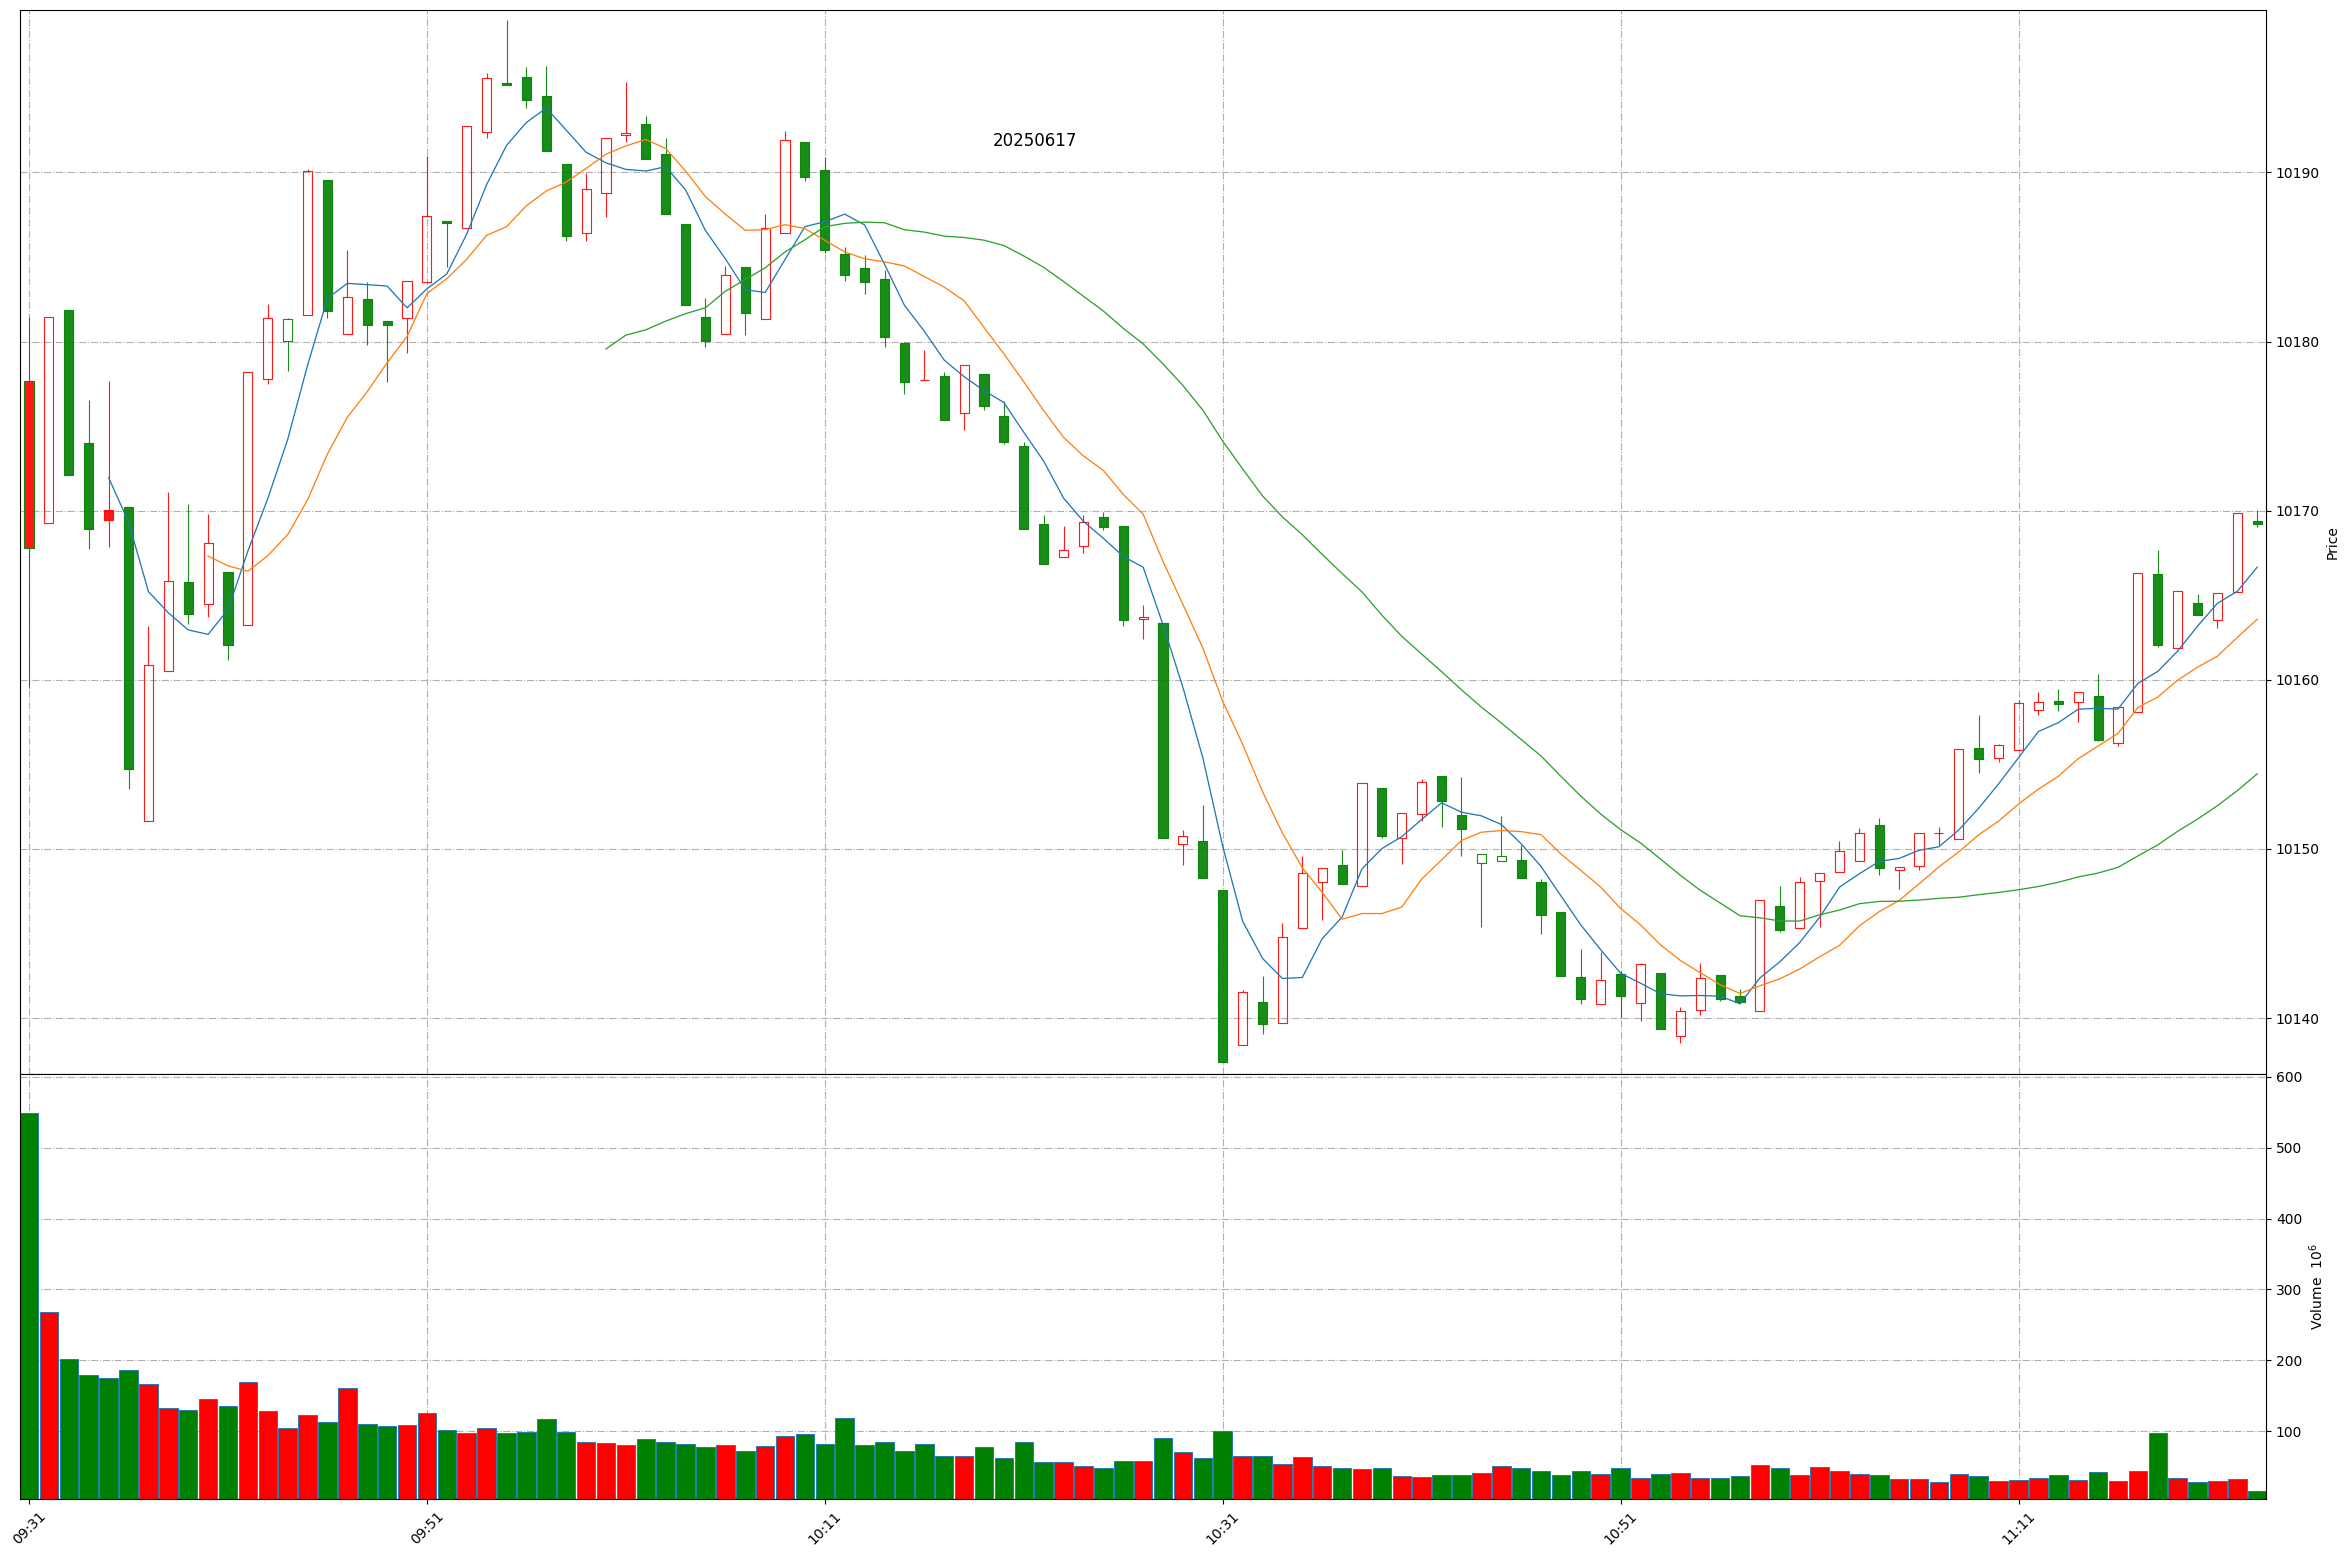
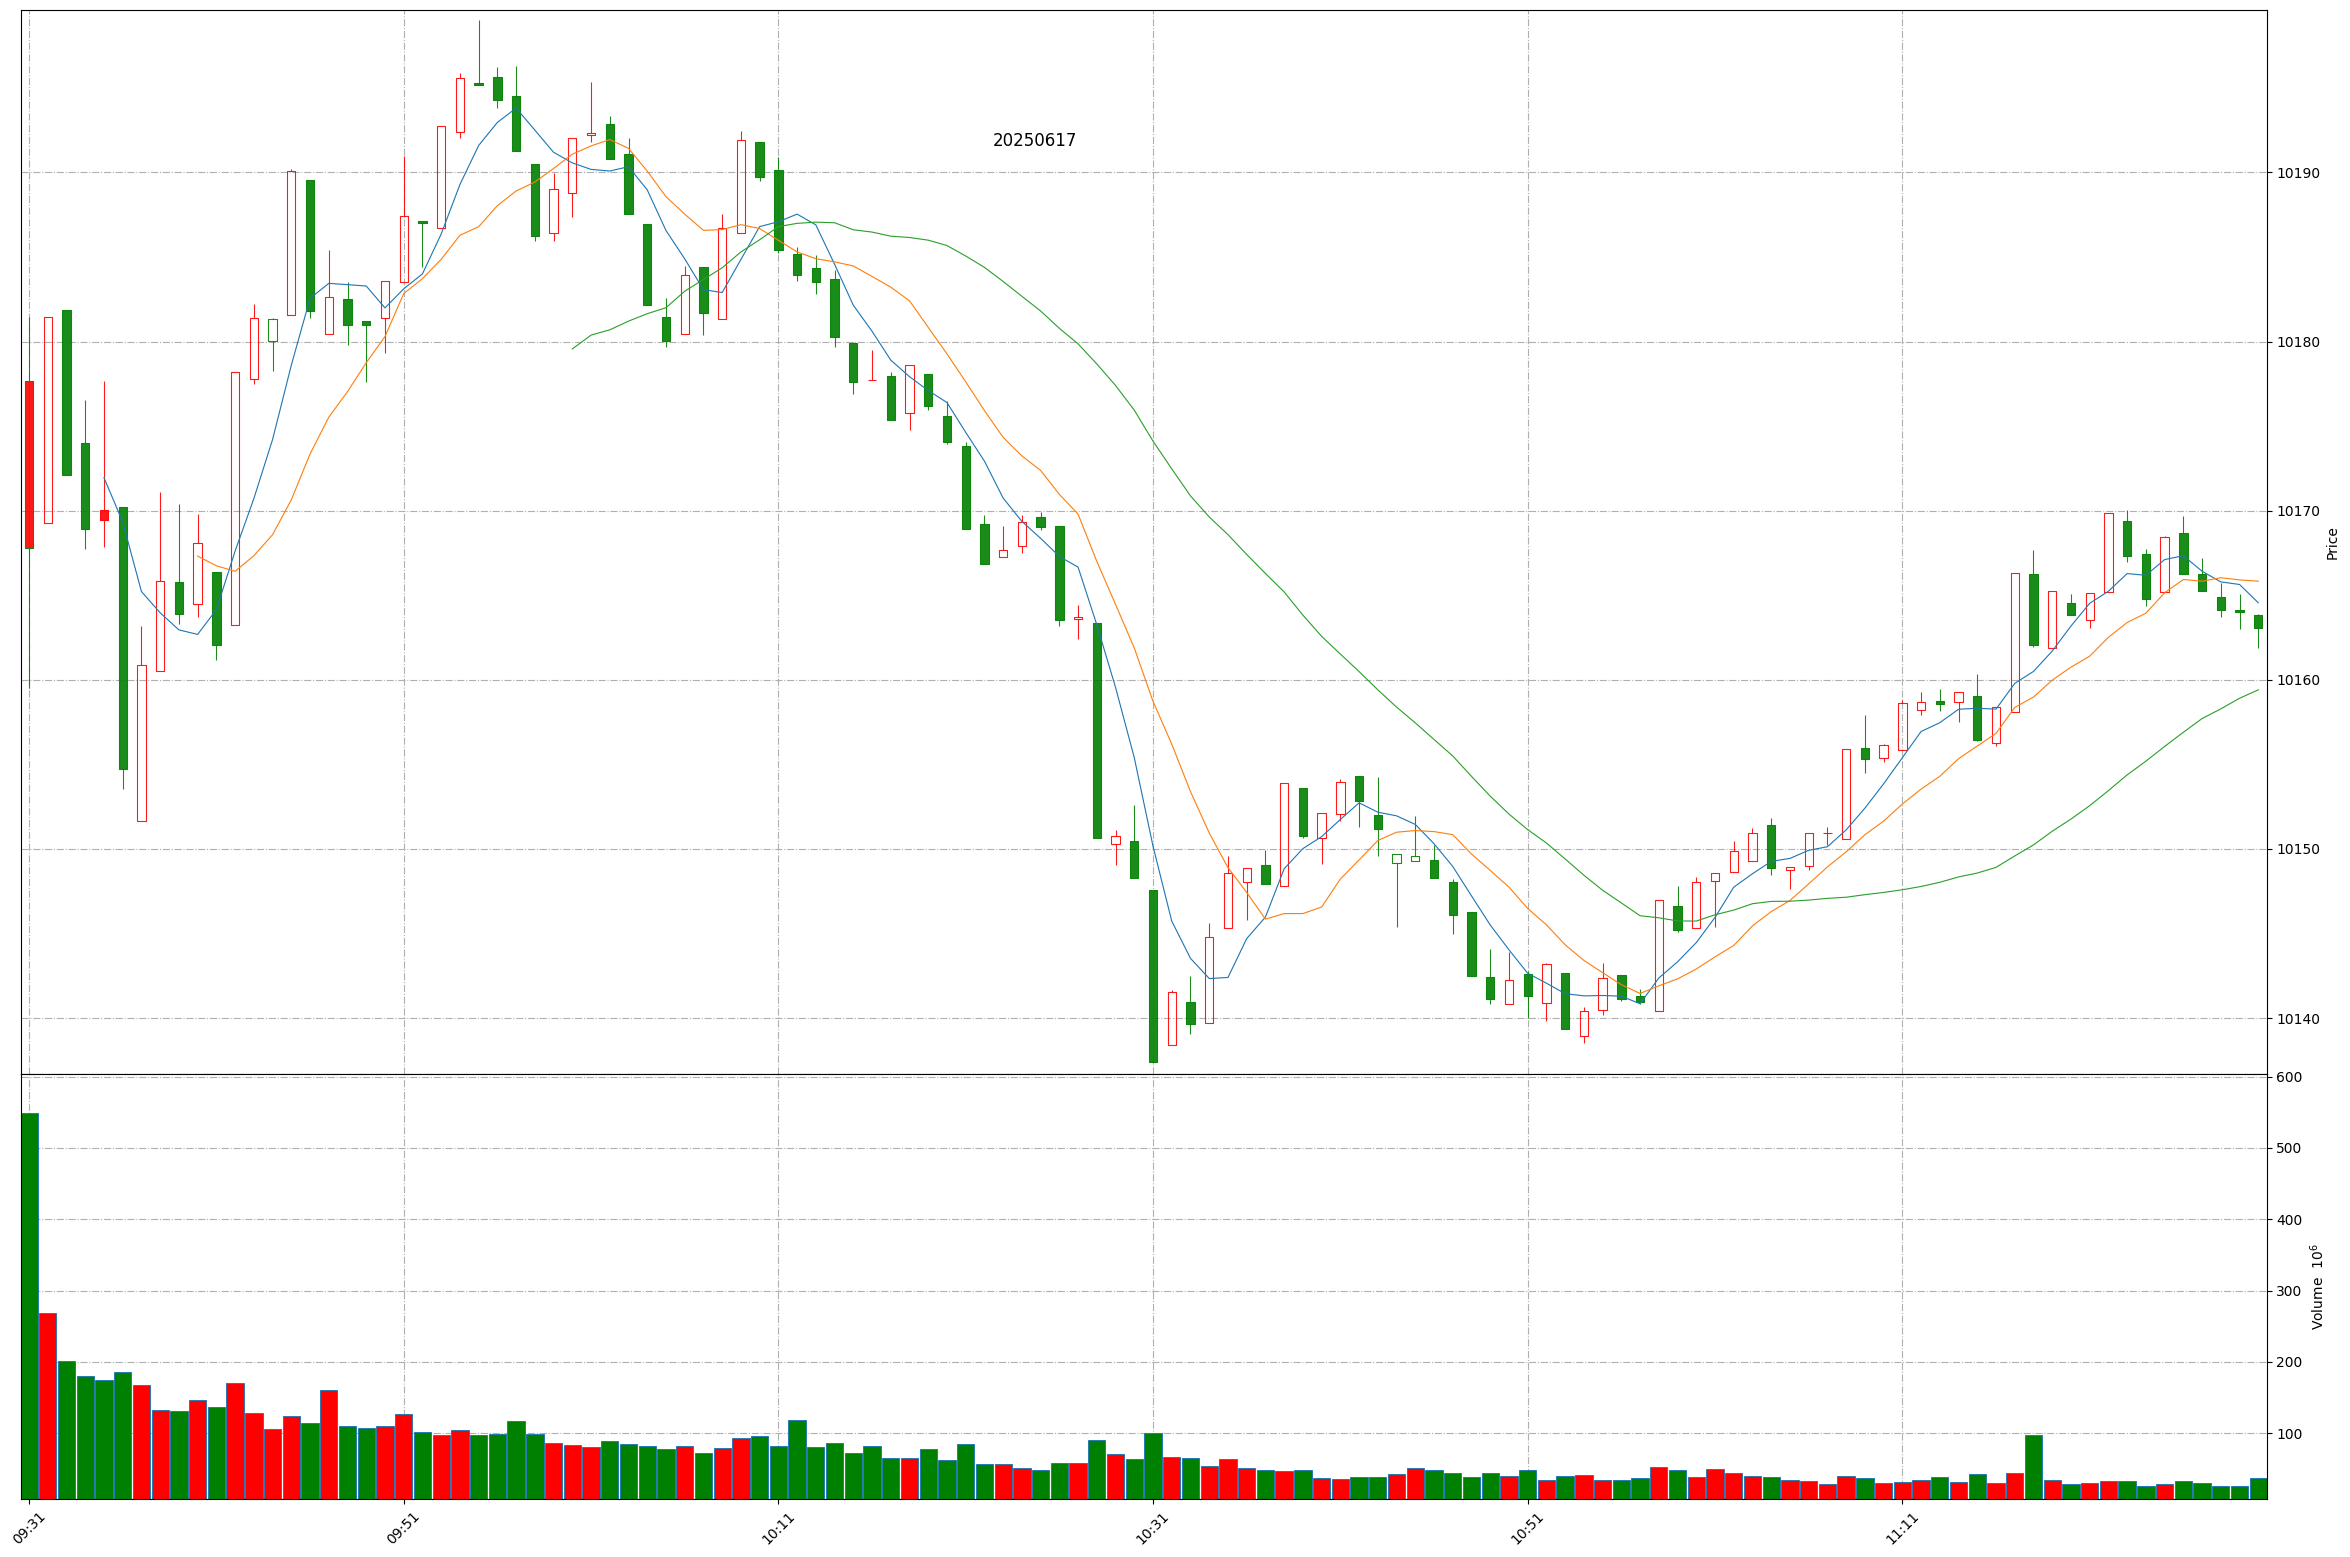
Github action update at 2025-06-17 11:30:52.

Changed region(s): [[0.1243, 0.0308, 0.9634, 0.6782], [0.0, 0.8632, 0.9634, 0.9865], [0.0, 0.2158, 0.1243, 0.4933]]

diff --git a/README.md b/README.md
@@ -1,11 +1,11 @@
 
 # Daily-A-share-market-quotes 每日 A 股指数（5min 更新）- 20250617
 
-### 上证指数 20250617 11:22
+### 上证指数 20250617 11:30
 ![](./fig/2025/6/20250617-sh000001.png)
 
-### 深证成指 20250617 11:22
+### 深证成指 20250617 11:30
 ![](./fig/2025/6/20250617-sz399001.png)
 
-### 北证50 20250617 11:22
+### 北证50 20250617 11:30
 ![](./fig/2025/6/20250617-bj899050.png)
